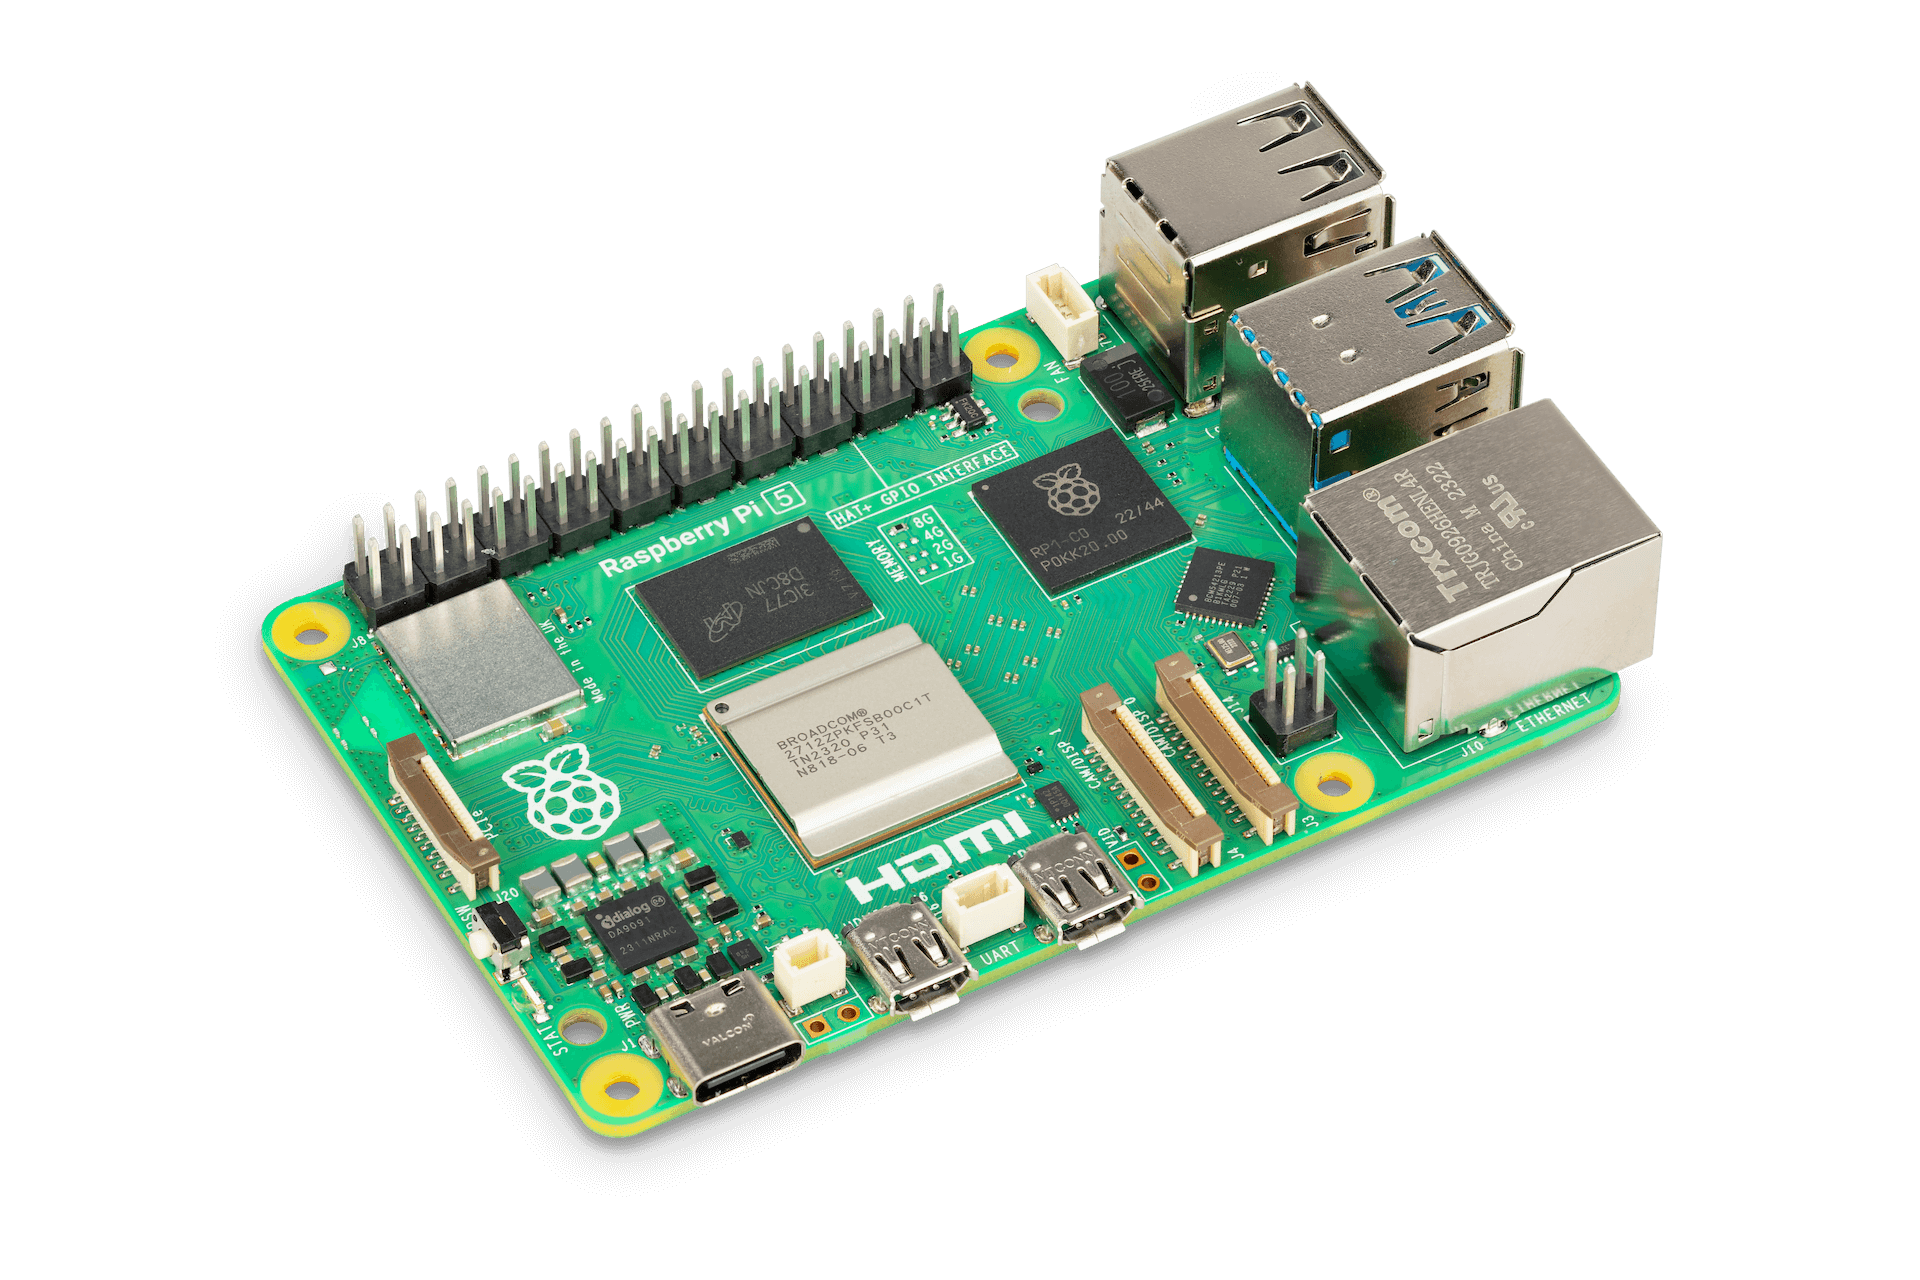
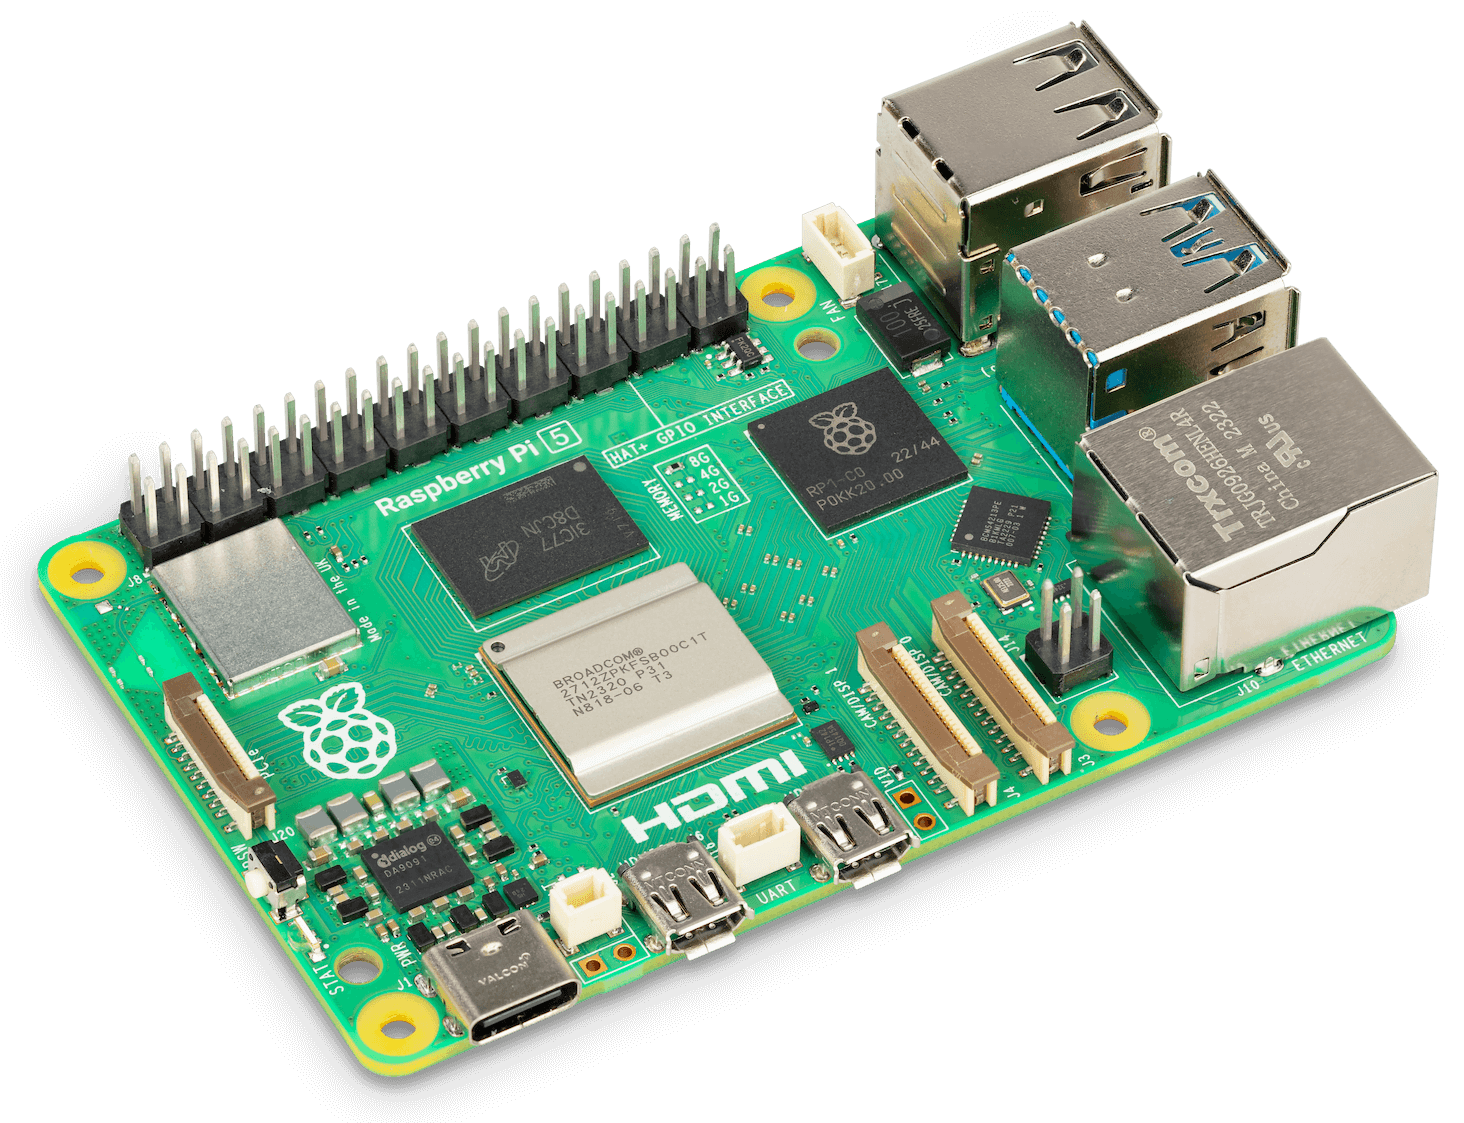
cropped images and fixed stuff

diff --git a/src/content/uses/electric-tape-blue.md b/src/content/uses/electric-tape-blue.md
@@ -1,6 +1,6 @@
 ---
 title: Electric Tape (blue)
-description: 'I'm getting around a bit, leacing with two room mates. I needed something to mark everything that is mine so that I won't forget it, but also other know that it's mine.'
+description: "I'm getting around a bit, leacing with two room mates. I needed something to mark everything that is mine so that I won't forget it, but also other know that it's mine."
 tags:
   - Essentials
 url: https://www.tesa.com/en/industry/tesa-4308.html

diff --git a/src/content/uses/anker-powerbank.md b/src/content/uses/anker-powerbank.md
@@ -1,6 +1,6 @@
 ---
 title: Anker Nano Power Bank
-description: 'Had a MagSafe Powerbank but as I'm now on Android I needed a replacement. Tech spec: 10.000mAh, 30W, integrated USB-C cable'
+description: "Had a MagSafe Powerbank but as I'm now on Android I needed a replacement. Tech spec: 10.000mAh, 30W, integrated USB-C cable."
 tags:
   - Hardware
 url: https://www.anker.com/products/a1259-built-in-cable-power-bank-10000mah?variant=42733233766550#reviews-jdgm

diff --git a/src/content/uses/perplexity.md b/src/content/uses/perplexity.md
@@ -1,6 +1,6 @@
 ---
 title: Perplexity AI
-description: 'I use it for more complex search querries where I know I'll have to go thorugh multiple sites to gather that information.'
+description: "I use it for more complex search querries where I know I'll have to go thorugh multiple sites to gather that information."
 tags:
   - Software
 url: https://www.perplexity.ai/
